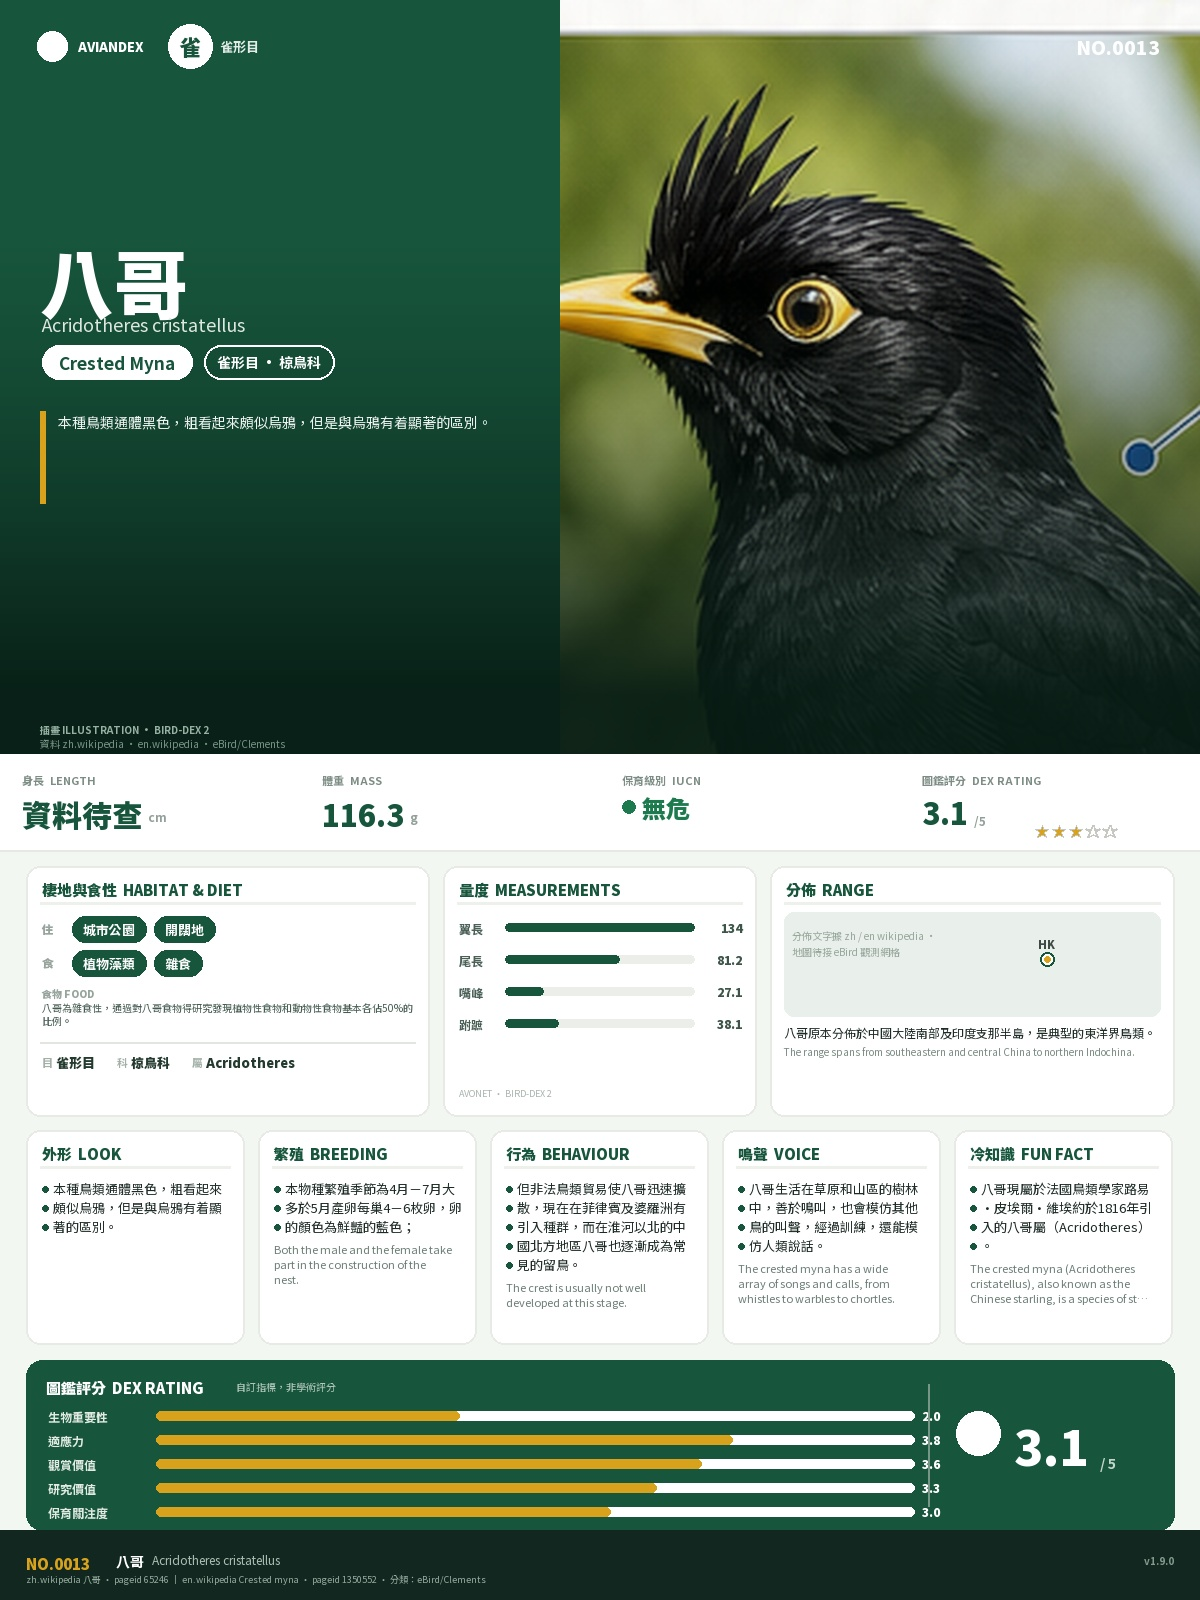
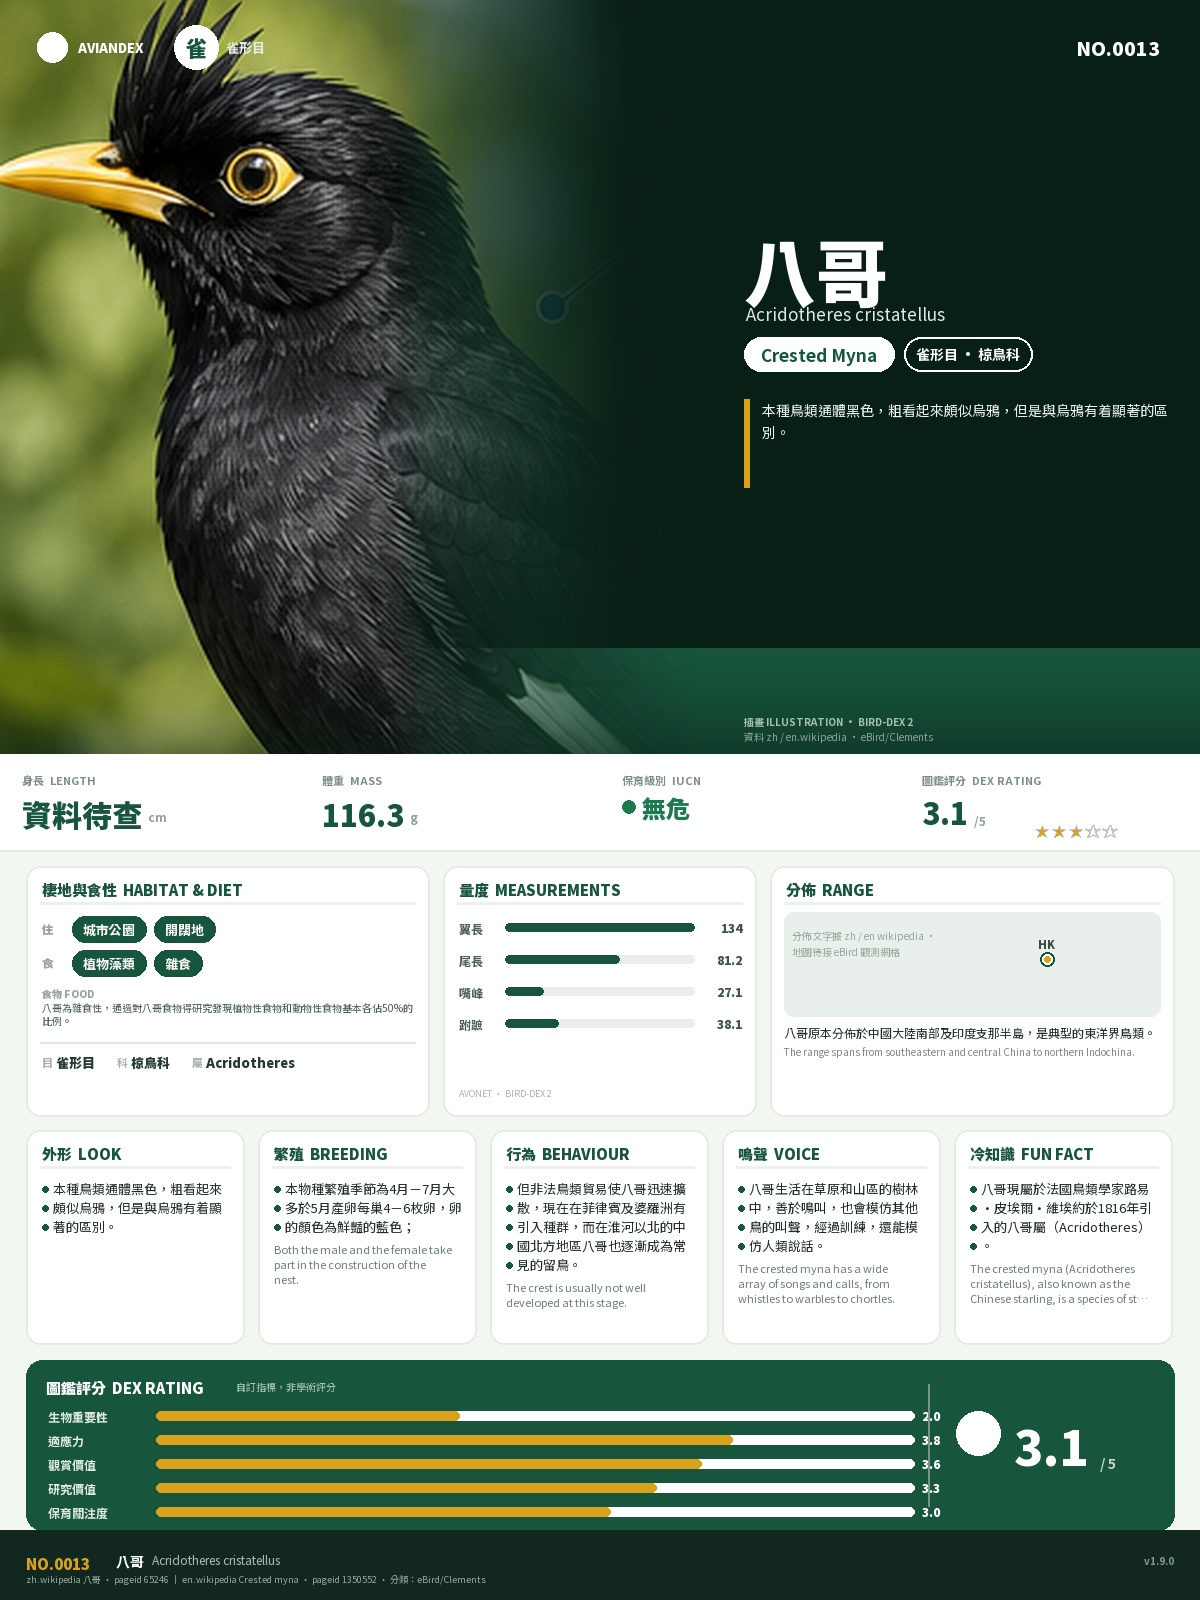
feat(card): 主圖改左右分欄，並加手機可開的成品圖預覽頁
- render-card-png.py：插畫在左、文字在右；主圖取整隻雀（連腳），
  漸層淡出舊卡右邊的引線與特徵圈
- 支援第 3 個參數指定插畫代號（示範時可借用已下載的插畫）
- 新增 scripts/build-card-gallery.mjs → public/card-gallery.html：
  排好 public/demo/ 內已生成的成品卡，手機直接開 /card-gallery.html 就見到

diff --git a/public/card-gallery.html b/public/card-gallery.html
@@ -1,0 +1,52 @@
+<!doctype html>
+<html lang="zh-Hant-HK">
+<head>
+<meta charset="utf-8">
+<title>圖鑑資訊卡 · 成品圖預覽</title>
+<meta name="viewport" content="width=device-width,initial-scale=1,viewport-fit=cover">
+<meta name="robots" content="noindex">
+<style>
+  :root{ --bg:#14180f; --ink:#eef2ea; --dim:#9aa892; --acc:#d8a21c; }
+  *{box-sizing:border-box}
+  body{margin:0;background:var(--bg);color:var(--ink);
+    font-family:"Noto Sans TC","PingFang TC","Microsoft JhengHei",system-ui,sans-serif;
+    -webkit-text-size-adjust:100%}
+  header{padding:16px 16px 10px;border-bottom:1px solid rgba(255,255,255,.1);position:sticky;top:0;
+    background:rgba(20,24,15,.94);backdrop-filter:blur(8px);z-index:2}
+  h1{margin:0;font-size:16px;letter-spacing:.02em}
+  header p{margin:4px 0 0;font-size:12px;color:var(--dim);line-height:1.5}
+  main{padding:14px 12px 48px;display:flex;flex-direction:column;gap:22px}
+  figure{margin:0}
+  figure a{display:block}
+  img{display:block;width:100%;height:auto;border-radius:12px;
+    box-shadow:0 6px 20px rgba(0,0,0,.45);background:#0b0d08}
+  figcaption{display:flex;flex-wrap:wrap;gap:8px;align-items:baseline;
+    font-size:12px;color:var(--dim);padding:8px 2px 0}
+  figcaption b{font-family:ui-monospace,monospace;color:var(--acc);font-size:12px}
+  figcaption .zh{color:var(--ink);font-weight:700;font-size:13px}
+  .empty{padding:32px 16px;color:var(--dim);font-size:13px;line-height:1.7}
+  @media (min-width:760px){
+    main{display:grid;grid-template-columns:repeat(auto-fill,minmax(340px,1fr));
+      gap:22px;max-width:1200px;margin:0 auto}
+  }
+</style>
+</head>
+<body>
+<header>
+  <h1>圖鑑資訊卡 · 成品圖</h1>
+  <p>1200×1600 原始尺寸 · 點圖可放大或另存 · 一套版式按「目」換色</p>
+</header>
+<main>
+  <figure>
+    <a href="/demo/card-0013-new.jpg" target="_blank" rel="noopener">
+      <img src="/demo/card-0013-new.jpg" alt="八哥 資訊卡" loading="lazy" decoding="async">
+    </a>
+    <figcaption>
+      <b>NO.0013</b>
+      <span class="zh">八哥</span>
+      <span>Crested Myna</span>
+      <span>雀形目 · 椋鳥科</span>
+    </figcaption>
+  </figure>
+</main>
+</body></html>

diff --git a/scripts/render-card-png.py b/scripts/render-card-png.py
@@ -153,25 +153,25 @@ def bullets(text, max_chars=110, max_points=3):
 LOCAL_ART = "/tmp/arena-coding-uploads/八哥.png"   # 用戶原版卡（1024×1536）作離線插畫來源
 
 
-def art_from_local(bird_id):
+def art_from_local(bird_id, key=None):
     """
     沙盒連不到 r2.dev，但用戶的原版卡就在手邊。
     從原版卡裁出「主插畫」那一塊（左上像素圖與中間相片之間的那張），
     只用來做版面預覽，不會當成新素材上線。
     """
-    if bird_id != "0013" or not os.path.exists(LOCAL_ART):
+    if key != "0013" or not os.path.exists(LOCAL_ART):
         return None
     try:
         im = Image.open(LOCAL_ART).convert("RGB")
         sx, sy = im.width / 1024, im.height / 1536
         # 原版主相片區：x 到 690 就停，否則會把右邊 4 個特徵圓圈與引線一齊裁入
-        box = (int(316 * sx), int(196 * sy), int(560 * sx), int(800 * sy))
+        box = (int(302 * sx), int(186 * sy), int(600 * sx), int(806 * sy))
         return im.crop(box)
     except Exception:  # noqa: BLE001
         return None
 
 
-def art_image(bird_id):
+def art_image(bird_id, key=None):
     url = f"https://pub-a9333a974e814ccba1994639b6e79266.r2.dev/birdcards/{bird_id}.avif"
     try:
         req = urllib.request.Request(url, headers={"User-Agent": "AvianDex/1.0"})
@@ -180,7 +180,7 @@ def art_image(bird_id):
         im = Image.open(BytesIO(data)).convert("RGB")
         return im
     except Exception as e:  # noqa: BLE001
-        local = art_from_local(bird_id)
+        local = art_from_local(bird_id, key)
         if local is not None:
             print(f"  · r2 拿不到（{e.__class__.__name__}），改用用戶原版卡的插畫位置")
             return local
@@ -208,7 +208,8 @@ def draw_pokeball(d, cx, cy, r, color, white="white"):
     d.ellipse([cx - r * .12, cy - r * .12, cx + r * .12, cy + r * .12], fill=color)
 
 
-def render(bird_id, out_path):
+def render(bird_id, out_path, imagekey=None):
+    key = imagekey or bird_id
     data = load()
     e = data["idx"]["birds"][bird_id]
     zh = data["zh"].get(bird_id, {})
@@ -222,89 +223,89 @@ def render(bird_id, out_path):
     img = Image.new("RGB", (W, H), T)
     d = ImageDraw.Draw(img)
 
-    # ══════════ ① 主圖：左邊文字、右邊相片（相片完整不裁走頭部）══════════
+    # ══════════ ① 主圖：插畫在左、文字在右 ══════════
     POSTER_H = 754
-    SPLIT = 560                     # 左欄寬度：文字區
-    art = art_image(bird_id)
+    SPLIT = 700                       # 插畫佔 0..SPLIT；文字由 SPLIT 起
+    art = art_image(key, key)
     d.rectangle([0, 0, W, POSTER_H], fill=C)
     if art is not None:
-        # 相片等比鋪滿右半，靠上對齊（頭部一定見到）
-        rw, rh = W - SPLIT, POSTER_H
-        ratio = max(rw / art.width, rh / art.height)
+        # 插畫是直幅：以寬度貼合，垂直對齊偏上（保住頭部與身體）
+        ratio = max(SPLIT / art.width, POSTER_H / art.height)
         aw, ah = int(art.width * ratio) + 1, int(art.height * ratio) + 1
         art = art.resize((aw, ah), Image.LANCZOS)
-        left = max(0, (aw - rw) // 2)
-        top = 0
-        img.paste(art.crop((left, top, left + rw, top + rh)), (SPLIT, 0))
-        # 相片左邊加一條漸層，令文字欄與相片無縫
-        seam = Image.new("RGBA", (160, POSTER_H), (0, 0, 0, 0))
+        left = max(0, (aw - SPLIT) // 2)
+        top = int((ah - POSTER_H) * 0.18)
+        img.paste(art.crop((left, top, left + SPLIT, top + POSTER_H)), (0, 0))
+        # 相片右邊漸層，令文字欄同相片無縫
+        FW = 300                     # 由 SPLIT-FW 開始淡入文字欄底色
+        seam = Image.new("RGBA", (FW + 10, POSTER_H), (0, 0, 0, 0))
         sd = ImageDraw.Draw(seam)
-        for x in range(160):
-            alpha = int(255 * (1 - x / 160) ** 1.2)
-            sd.line([(x, 0), (x, POSTER_H)], fill=(C[0], C[1], C[2], alpha))
+        for x in range(FW + 10):
+            sd.line([(x, 0), (x, POSTER_H)],
+                    fill=(C[0], C[1], C[2], int(255 * (x / FW) ** 0.62)))
         img.paste(Image.alpha_composite(
-            img.crop((SPLIT - 160, 0, SPLIT, POSTER_H)).convert("RGBA"), seam).convert("RGB"),
-            (SPLIT - 160, 0))
+            img.crop((SPLIT - FW, 0, SPLIT + 10, POSTER_H)).convert("RGBA"), seam).convert("RGB"),
+            (SPLIT - FW, 0))
     else:
-        d.text((SPLIT + (W - SPLIT) // 2, POSTER_H // 2), f"NO.{bird_id}",
-               font=font(46, 900), fill=(255, 255, 255))
+        d.text((SPLIT // 2, POSTER_H // 2), f"NO.{bird_id}", font=font(46, 900),
+               fill=(255, 255, 255), anchor="mm")
 
-    # 由下往上的暗幕（令白字讀得到）
-    # 暗幕只鋪在主圖那一段，所以要整張卡大小的透明層
+    # 文字欄底色漸層（右邊要夠暗）
     veil = Image.new("RGBA", (W, H), (0, 0, 0, 0))
     vd = ImageDraw.Draw(veil)
-    for y in range(POSTER_H):
-        p = y / POSTER_H
-        alpha = 0 if p < 0.30 else int(255 * min(1, (p - 0.30) / 0.62) ** 1.35)
-        vd.line([(0, y), (W, y)], fill=(C[0] // 3, C[1] // 3, C[2] // 3, int(alpha * 0.94)))
+    for x in range(W):
+        p = x / W
+        alpha = 0 if p < 0.28 else int(255 * min(1, (p - 0.28) / 0.24) ** 1.0)
+        vd.line([(x, 0), (x, POSTER_H)], fill=(C[0] // 3, C[1] // 3, C[2] // 3, int(alpha * 0.95)))
+    # 底部一小段，令主圖與資料帶接順
+    for y in range(int(POSTER_H * 0.86), POSTER_H):
+        q = max(0.0, (y - POSTER_H * 0.86) / (POSTER_H * 0.14))
+        vd.line([(0, y), (W, y)], fill=(C[0] // 3, C[1] // 3, C[2] // 3, int(120 * q ** 1.4)))
     img = Image.alpha_composite(img.convert("RGBA"), veil).convert("RGB")
     d = ImageDraw.Draw(img)
 
     # 品牌 + 目徽章 + 編號
-    draw_pokeball(d, 52, 46, 15, (255, 255, 255), white=(255, 255, 255))
-    d.text((78, 46), "AVIANDEX", font=font(13, 900), fill="white", anchor="lm")
-    d.text((W - 40, 46), f"NO.{bird_id}", font=font(19, 900), fill="white", anchor="rm")
-    # 目徽章放在品牌之後（原本放在 NO. 左邊會撞埋一齊）
-    bx, by = 190, 46
+    draw_pokeball(d, 52, 47, 15, (255, 255, 255), white=(255, 255, 255))
+    d.text((78, 47), "AVIANDEX", font=font(13, 900), fill="white", anchor="lm")
+    bx, by = 196, 47
     d.ellipse([bx - 22, by - 22, bx + 22, by + 22], fill="white")
     d.text((bx, by), e["oz"][:1], font=font(22, 900), fill=C, anchor="mm")
     d.text((bx + 30, by), e["oz"], font=font(13, 700), fill=(228, 236, 231), anchor="lm")
+    d.text((W - 40, 47), f"NO.{bird_id}", font=font(19, 900), fill="white", anchor="rm")
 
-    # 名稱區（左欄，垂直居中）
-    NAME_Y = POSTER_H // 2 - 150
-    d.text((40, NAME_Y), e["z"], font=font(74, 900), fill="white")
-    d.text((42, NAME_Y + 84), e["s"], font=font(18, 400), fill=(222, 231, 225))
-    # 英文膠囊
+    # 名稱區（右欄，垂直居中）
+    TX = SPLIT + 44
+    NAME_Y = POSTER_H // 2 - 160
+    d.text((TX, NAME_Y), e["z"], font=font(72, 900), fill="white")
+    d.text((TX + 2, NAME_Y + 84), e["s"], font=font(17, 400), fill=(226, 234, 229))
     en_txt = e["e"]
     tw = d.textlength(en_txt, font=font(17, 700))
-    d.rounded_rectangle([42, NAME_Y + 118, 42 + tw + 34, NAME_Y + 152], 17, fill="white")
-    d.text((59, NAME_Y + 135), en_txt, font=font(17, 700), fill=C, anchor="lm")
-    # 目 · 科
+    d.rounded_rectangle([TX, NAME_Y + 120, TX + tw + 34, NAME_Y + 154], 17, fill="white")
+    d.text((TX + 17, NAME_Y + 137), en_txt, font=font(17, 700), fill=C, anchor="lm")
     tag = f"{e['oz']} · {e['fz']}"
     tw2 = d.textlength(tag, font=font(14, 700))
-    d.rounded_rectangle([42 + tw + 46, NAME_Y + 118, 42 + tw + 46 + tw2 + 26, NAME_Y + 152],
+    d.rounded_rectangle([TX + tw + 44, NAME_Y + 120, TX + tw + 44 + tw2 + 24, NAME_Y + 154],
                         17, outline=(255, 255, 255), width=2)
-    d.text((42 + tw + 59, NAME_Y + 135), tag, font=font(14, 700), fill="white", anchor="lm")
+    d.text((TX + tw + 56, NAME_Y + 137), tag, font=font(14, 700), fill="white", anchor="lm")
 
     # 引言（原文第一句，不改寫）
     quote = (zh.get("look") or zh.get("range") or "").strip()
     if quote:
         first = quote.split("。")[0]
-        if len(first) > 42:
-            first = first[:42] + "…"
+        if len(first) > 40:
+            first = first[:40] + "…"
         else:
             first += "。"
-        qy = NAME_Y + 184
-        d.rectangle([40, qy, 45, qy + 92], fill=A)
-        qlines = wrap(first, font(14, 400), SPLIT - 90, d)[:5]
-        for i, line in enumerate(qlines):
-            d.text((58, qy + i * 22), line, font=font(14, 400), fill=(238, 244, 240))
+        qy = NAME_Y + 182
+        d.rectangle([TX, qy, TX + 5, qy + 88], fill=A)
+        for i, line in enumerate(wrap(first, font(14, 400), W - TX - 46, d)[:4]):
+            d.text((TX + 18, qy + i * 22), line, font=font(14, 400), fill=(240, 245, 241))
 
-    # 左欄底部：插畫出處（真實來源）
-    d.text((40, POSTER_H - 32), "插畫 ILLUSTRATION · BIRD-DEX 2", font=font(10, 700),
-           fill=(150, 176, 162))
-    d.text((40, POSTER_H - 18), "資料 zh.wikipedia · en.wikipedia · eBird/Clements",
-           font=font(10, 400), fill=(120, 148, 134))
+    # 文字欄底部：插畫與資料出處（真實來源）
+    d.text((TX, POSTER_H - 40), "插畫 ILLUSTRATION · BIRD-DEX 2", font=font(10, 700),
+           fill=(168, 190, 176))
+    d.text((TX, POSTER_H - 25), "資料 zh / en.wikipedia · eBird/Clements", font=font(10, 400),
+           fill=(140, 164, 150))
 
     # ══════════ ② 資料帶 ══════════
     STAT_H = 96
@@ -560,4 +561,5 @@ if __name__ == "__main__":
     bid = sys.argv[1] if len(sys.argv) > 1 else "0013"
     bid = bid.zfill(4)
     out = sys.argv[2] if len(sys.argv) > 2 else os.path.join(ROOT, f"public/demo/card-{bid}-new.jpg")
-    render(bid, out)
+    imgkey = sys.argv[3] if len(sys.argv) > 3 else None   # 示範第二隻時，可借用已下載到的插畫
+    render(bid, out, imgkey)
